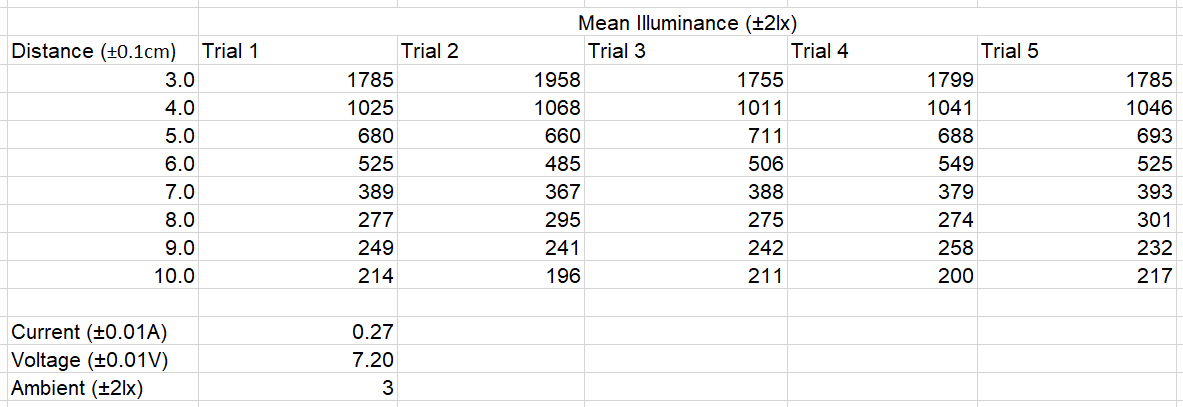
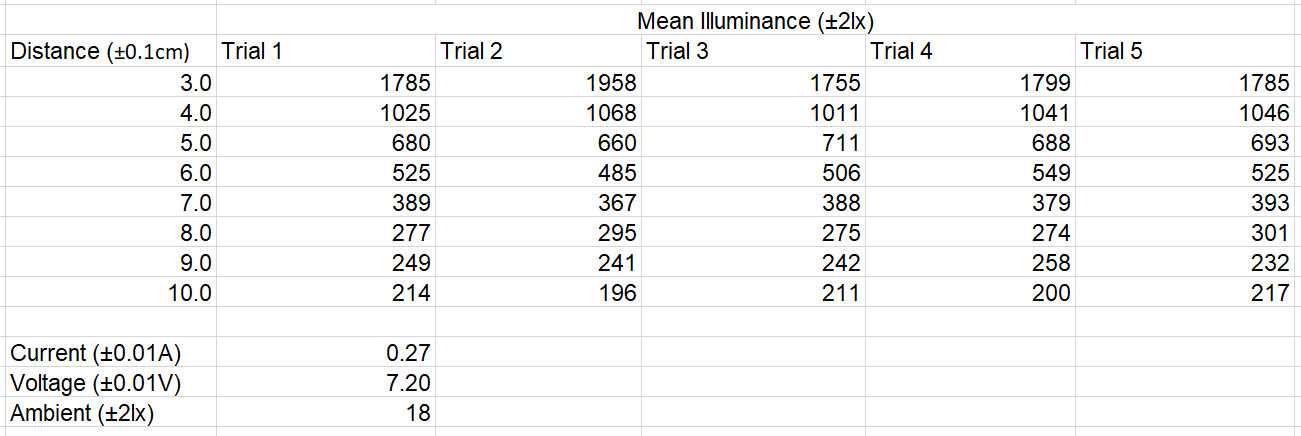
Finished Physics IA

diff --git a/Physics/draft/light.tex b/Physics/draft/light.tex
@@ -34,7 +34,10 @@
 \newcommand{\absun}{\Delta \text{unc}\,}
 \newcommand{\relun}{\% \text{unc}\,}
 
-\title{Empirically finding the typical luminous efficiency of an incandescent light bulb through the inverse square law}
+\newcommand{\paragraphnl}[1]{\textbf{#1}\\\\}
+
+
+\title{Empirically finding the typical luminous efficacy of an incandescent light bulb through the inverse square law}
 \author{Terry Qi}
 
 \begin{document}
@@ -45,7 +48,7 @@
 
 \subsection{Introduction}
 % personal
-During the examination of a potential IA idea on the intensity of a refracted light-beam, I struggled with the implementation of a realistic light due to a lack of understanding and care towards the drop of intensity of light with respect to the distance. Because the glass cube I was working with had significant length, the decrease in intensity of the light-beam within the glass damaged my data and exponentially increased the difficulty in linearization. Therefore, I wanted to empirically see how the difference in distances will affect the measurement of light intensity. Additionally, I found the labs bulbs are prone to extreme heat even with little power and duration. Thus, I thought to use this experiment to find the luminous efficiency of an incandescent lab light-bulb to confirm my suspicion.
+During the examination of a potential IA idea on the intensity of a refracted light-beam, I struggled with the implementation of a realistic light due to a lack of understanding and care towards the drop of intensity of light with respect to the distance. Because the glass cube I was working with had significant length, the decrease in intensity of the light-beam within the glass damaged my data and exponentially increased the difficulty in linearization. Therefore, I wanted to empirically see how the difference in distances will affect the measurement of light intensity. Additionally, I found the labs bulbs are prone to extreme heat even with little power and duration. Thus, I thought to use this experiment to find the luminous efficacy of an incandescent lab light-bulb to confirm my suspicion.
 
 \subsection{Research Question}
 \begin{quote}
@@ -207,15 +210,16 @@ Avoid touching the light-bulb throughout the experiment. The light-bulb got supe
     \centering
     \includegraphics[width=\textwidth]{assets/rawdata.png}
     \caption{Unprocessed experimental data}
+    \label{fig:raw}
 \end{figure}
 
 \subsection{Processing}
 \paragraph{Notation}
 
-Uncertainty: un \quad Absolute uncertainty: $\Delta$un \quad Relative uncertainty: \%un
+Uncertainty: unc \quad Absolute uncertainty: $\Delta$unc \quad Relative uncertainty: \%unc
 
 
-\subsubsection*{Processing Power}
+\subsubsection{Processing Power}
 Power is defined in figure \ref{eq:work}:
 \begin{align*}
 \text{Power} &= \text{Current} \times \text{Voltage}\\
@@ -230,7 +234,9 @@ Power is defined in figure \ref{eq:work}:
 
 Therefore: $P = 1.94 \pm 0.07 \si{W}$
 
-\subsubsection*{Processing Illuminance}
+\subsubsection{Processing Illuminance}
+
+\paragraphnl{Correcting for the ambient illuminance}
 Subtract the each illuminance values by the ambient illuminance value (figure \ref{fig:corrected}).
 
 \textit{Uncertainty}: $\absun$Corrected = $\absun$Measured + $\absun$Ambient
@@ -245,11 +251,12 @@ Subtract the each illuminance values by the ambient illuminance value (figure \r
     \label{fig:corrected}
 \end{figure}
 
+\paragraphnl{Averaging trial illuminances}
 Average the measured illuminance. Additionally, the distances are converted into standard SI units in meters (figure \ref{fig:average}, graph \ref{gph:average}).
 
 \begin{figure}[H]
     \centering
-    \includegraphics[scale=0.6]{assets/averagedata.png}
+    \includegraphics[scale=0.5]{assets/averagedata.png}
     \caption{Averaged illuminance values}
     \label{fig:average}
 \end{figure}
@@ -261,7 +268,9 @@ Average the measured illuminance. Additionally, the distances are converted into
     \label{gph:average}
 \end{figure}
 
-Graph \ref{gph:average} looks like an inverse squared graph, attempt straightening with $1/{\text{distance}}^2$ transformation. The transformation data and error is generated with Microsoft Excel (figure \ref{fig:tdata}, graph \ref{gph:tdata}).
+
+\paragraphnl{Applying inverse squared transform on distance}
+Graph \ref{gph:average} looks like an inverse squared graph, so I attempted to straighten it with $1/{\text{distance}}^2$ transformation. The transformation data and error is generated with Microsoft Excel (figure \ref{fig:tdata}, graph \ref{gph:tdata}).
 
 \textit{Error bars}: $\relun 1/{\text{distance}}^2$ = $2 \times \relun \text{distance}$
 
@@ -274,26 +283,30 @@ Graph \ref{gph:average} looks like an inverse squared graph, attempt straighteni
 
 \begin{figure}[H]
     \centering
-    \includegraphics[scale=0.5]{assets/transformgraph.png}
+    \includegraphics[width=\textwidth]{assets/transformgraph.png}
     \caption{Transformed distance graph}
     \label{gph:tdata}
 \end{figure}
 
-The justification for the horizontal error line of worst fit resides in the accuracy of the measuring devices: the percentage errors of the ruler are (for all values) larger than the percentage error of the light sensor, as indicated by the size of the error bars.
+\paragraphnl{Gradient and Errors}
+The justification for the horizontal error line of worst fits in figure \ref{gph:tdata} resides in the accuracy of the measuring devices: the percentage errors of the ruler are (for all values) larger than the percentage error of the light sensor, as indicated by the size of the error bars.
 
-The two linear regression formulas from graph \ref{gph:tdata} are as follow:
-\begin{align*}
-    E_v &= 1.58 \frac{1}{s^2} + 49.2\\
-    E_v &= 1.76 \frac{1}{s^2} - 25.5
-\end{align*}
 
-Final \% error: $|1.58-1.76| / 1.58 \approx 0.114 \approx 11.4\%$
+Higher gradient line of worst fit (HGLWF): 1.7209
 
-\textit{Uncertainty}: 11.4\% of $1.58$ = 0.2 (1 sf)
+Lower gradient line of worst fit (LGLWF): 1.4768
+
+Gradient of line of best fit (GLBF): 1.5881
+
+Half range: $\frac{1}{2} (\text{HGLWF} - \text{LGLWF})= \frac{1}{2}(1.7209-1.4768) \approx 0.121 \approx 12.1\% $
+
+Final \% error: $12.1\%$
+
+\textit{Uncertainty}: \% error x GLBF = 12.1\% of $1.59$ = 0.2 (1 sf)
 
 Slope = $1.6 \pm 0.2$
 
-Therefore, the equation is derived as figure \ref{fig:rel}:
+Therefore, the relationship is summarized as in figure \ref{fig:rel}:
 \begin{figure}[h!]
     \[
        E_v = (1.6 \pm 0.2) \frac{1}{s^2} + 49.2
@@ -302,21 +315,74 @@ Therefore, the equation is derived as figure \ref{fig:rel}:
     \label{fig:rel}
 \end{figure}
 
-% least range to most and halve range
-% justify the axis of unc
-
 \section{Conclusions}
 \subsection{Result}
 
-The final equation (figure \ref{fig:rel})
+Following the data collection and some transformation for linearization, the relationship is summarized in figure \ref{fig:rel}. It seems that the data had supported my suspicion to a large extend. From graph \ref{gph:average}, one can see the that measured illuminance  greatly falls when the distance to source increases --- notice the distance scale. To create a linear curve, the illuminance ($E_v$) is plotted against the inverse square of the distance ($\frac{1}{s^2}$) shown in graph \ref{gph:tdata}. The small variance of the data points from the line of best fit is a strong evidence to support my hypothesis.
 
+However, for the hypothesis also suggests that the relation curve should also intercept the y axis at point (0, 0), the lack of that feature in the graph suggests some systematical error are present --- the line of best fit has a positive intercept of $34.2 \si{lx}$ instead of $0 \si{lx}$. The existance of some systematic error shifting the curve upwards usually means a degree of inaccuracy, but judging from the small percentage of the error in respect to the values data points --- $34.2 / 1798 \approx 2\%$, the inaccuracy present here is tiny, further indicating a success in my method. Nevertheless, the systematic error could be caused by the erroneous reading of the ambient illuminance, parallax error in aligning the ruler, or by a lack of calibration of the light sensor.
+
+Additionally, the experimental data contains a noticeable amount of uncertainties indicated by the large error bars, particularly at smaller distances. There also exists large random error in the illuminance measurement, as indicated by the high half ranges of the trials of illuminance measurements during averaging (figure \ref{fig:average}) --- sometimes to a degree of $102/1798 \approx 5.7\%$ at the distance of $3\si{cm}$. This is most likely caused by the fluctuation of the light level in the room, which is likely caused by the leakage of sunlight through the window blinds. This is also reflected in the gradient calculations, for the slope had a relatively large uncertainty of $12.1\%$, supporting the presence of large random errors. However, the averaging of the data seemed to reduce the effects of the error. The line of best fit passed through all 8 points of the independent variable, and had a very high R-squared value of $0.9995$. This shows a high level of correlation in the data. In conclusion, the raw dataset presented in figure \ref{fig:raw} is said to be highly accuracy but less precise, and contains medium amounts of uncertainty.
 
 \subsection{Implications}
+
+If we were to define the proportionality constant $k(P)$ in figure \ref{eq:li} with parameter power, such that:
+
+\begin{align*}
+    k(P) &= \eta P
+    E_v = \eta P \frac{1}{s^2},
+\end{align*}
+
+where $\eta$ is another constant, I can fulfill my motivation for this experiment. Notice the units of the constant $\eta$ is $(\frac{\si{lx}}{\si{W\per m^2}} = \frac{\si{lm}}{\si{W}})$, is a value that is only depended on the light source used. Therefore, the constant $\eta$ is a measure of the efficacy of the light-bulb used in the amount of luminous power produced per unit power. This is also known as the typical luminous efficacy, one that I can use to compare to other light-bulbs using an online database. Furthermore, the value can be used to compare efficiency of light-bulbs in your daily life, whether that is to save money, or like me, to appreciate how far lighting technology had advanced.
+
+A division is needed to calculate the luminous efficacy $\eta$:
+\begin{align*}
+    \eta &= \frac{k}{P} = \frac{1.6 \pm 0.2}{1.94 \pm 0.07}\\
+    &\approx 0.82 \pm 0.13 \si{lm\per W}.
+\end{align*}
+
+In comparison to the typical values shown in table \ref{tbl:leff}, the lab incandescent 5W light-bulb that I've used, which has a luminous efficacy value of $0.82 \pm 0.13 (\si{lm\per W})$, looks to be as efficient in producing light as a typical fireplace. This is unsurprising, as the outer glass casing of the bulb readily heats up when it is powered, indicating energy loss in the form of thermal energy. A suggestion is to made for the school physics department for a switch to safer (less temperature), and more energy efficient light-bulbs for general experiments.
+
+\begin{table}[H]
+    \centering
+    \begin{tabular}{l|l}
+        Category     & Luminous Efficacy (lm/W) \\ \hline
+        Combustion   & 1-2                      \\
+        Incandescent & 5-17.5                   \\
+        Halogen      & 16.7-35                  \\
+        Fluorescent  & 46-104.2                 \\
+        LED          & 75-210
+    \end{tabular}
+    \caption{List of common luminous efficacy values of light sources}
+    \label{tbl:leff}
+\end{table}
+
+%https://www.wikiwand.com/en/Luminous_efficacy
+
 \subsection{Reflection}
 
-% other stuff
+Here is a list on the handling of the controlled variables/potential error factors, and future improvements to be made.
 
-%
+\subsection{Random Errors}
+\paragraph{Fluctuation of the outside light level} This is potentially a significant factor in creating a large uncertainty and low precision in the raw illuminance data. The advice would be to conduct the experiment at night, or in a totally blackout room without light pollution. This will increase the precision of the experiment and decrease the uncertainty on the luminous efficacy.
+
+\paragraph{The sensitivity of the light sensor} Insignificant, for the equipment is properly taped down, removing the problem of a shaky hand.
+
+\paragraph{The power supplied to the light-bulb}
+Insignificant, for the power held stable during the experiment.
+
+\subsection{Systematic Errors}
+\paragraph{Environmental room intensity}
+A potentially significant variable. The small but existent systematic error is likely to be caused by the erroneous measure of the ambient room light level. Performing the experiment in a blackout room or at night is likely to reduce the effects of the ambient room intensity and increase the accuracy of the dataset, possibility creating a curve that intercepts closer to 0 on the y axis.
+
+\paragraph{The temperature of the bulb filament}
+Insignificant, for the power is kept below the operating power limit and a lack of systematic decreasing illuminance during trials.
+
+\paragraph{Parallax placements of the ruler}
+A potentially significant variable. For the wooden ruler have depth, an angled top-down view to place the ruler is likely to result in parallax errors, thus systematically displacing the measured distances. It may be wise to have used a paper with beforehand markings of the distances, which is likely in reducing the systematic error shown in the curve, and potentially help bring the intercept closer to point (0,0).
+
+\paragraph{Accuracy of the light sensor}
+A variable that I was the most concerned about. This may be the largest cause of the systematic error. I could follow a lengthy calibration test listed on the manufacture's website against a factory calibrated source, which will decrease the systematic error and increase the accuracy of the data.
 
 \newpage
 \nocite{*}

diff --git a/English/draft/ioc.tex b/English/draft/ioc.tex
@@ -77,11 +77,11 @@ https://www.theguardian.com/commentisfree/2018/jul/05/frederick-douglass-anti-sl
 
 \paragraph{Language Text}
 
-Author: Escaped slavery, became national leader of movement in Massachusetts famous for speak
+Author: Escaped slavery, became national leader of movement in Massachusetts and New Work, famous for speaking. As a living counterexample to the arguments at the time in the inability of slaves to conceive intellectual capacity. Northerners surprised he was a slave.
 
 
 
-Language Techniques: Personal Pronoun [1], Rhetorical question [1], repetition [3-4], 
+Language Techniques: Personal Pronoun [1], Rhetorical question [1], repetition [3-4],
 
 
 \paragraph{Literary Text}

diff --git a/Chemistry/draft/azero.tex b/Chemistry/draft/azero.tex
@@ -1,0 +1,22 @@
+\documentclass[a4paper,12pt]{article}
+\usepackage[utf8]{inputenc}
+
+%opening
+\title{Empirically finding the value of Absolute Zero using the Ideal Gas Law}
+\author{Terry Qi}
+
+\begin{document}
+
+\maketitle
+
+\section{Design}
+\subsection{Introduction}
+
+\subsection{Research Question}
+\begin{quote}
+    What is the relationship between the pressure of a (specific) gas against its temperature under constant volume and quantity?
+\end{quote}
+
+\subsection{Background}
+
+\end{document}
